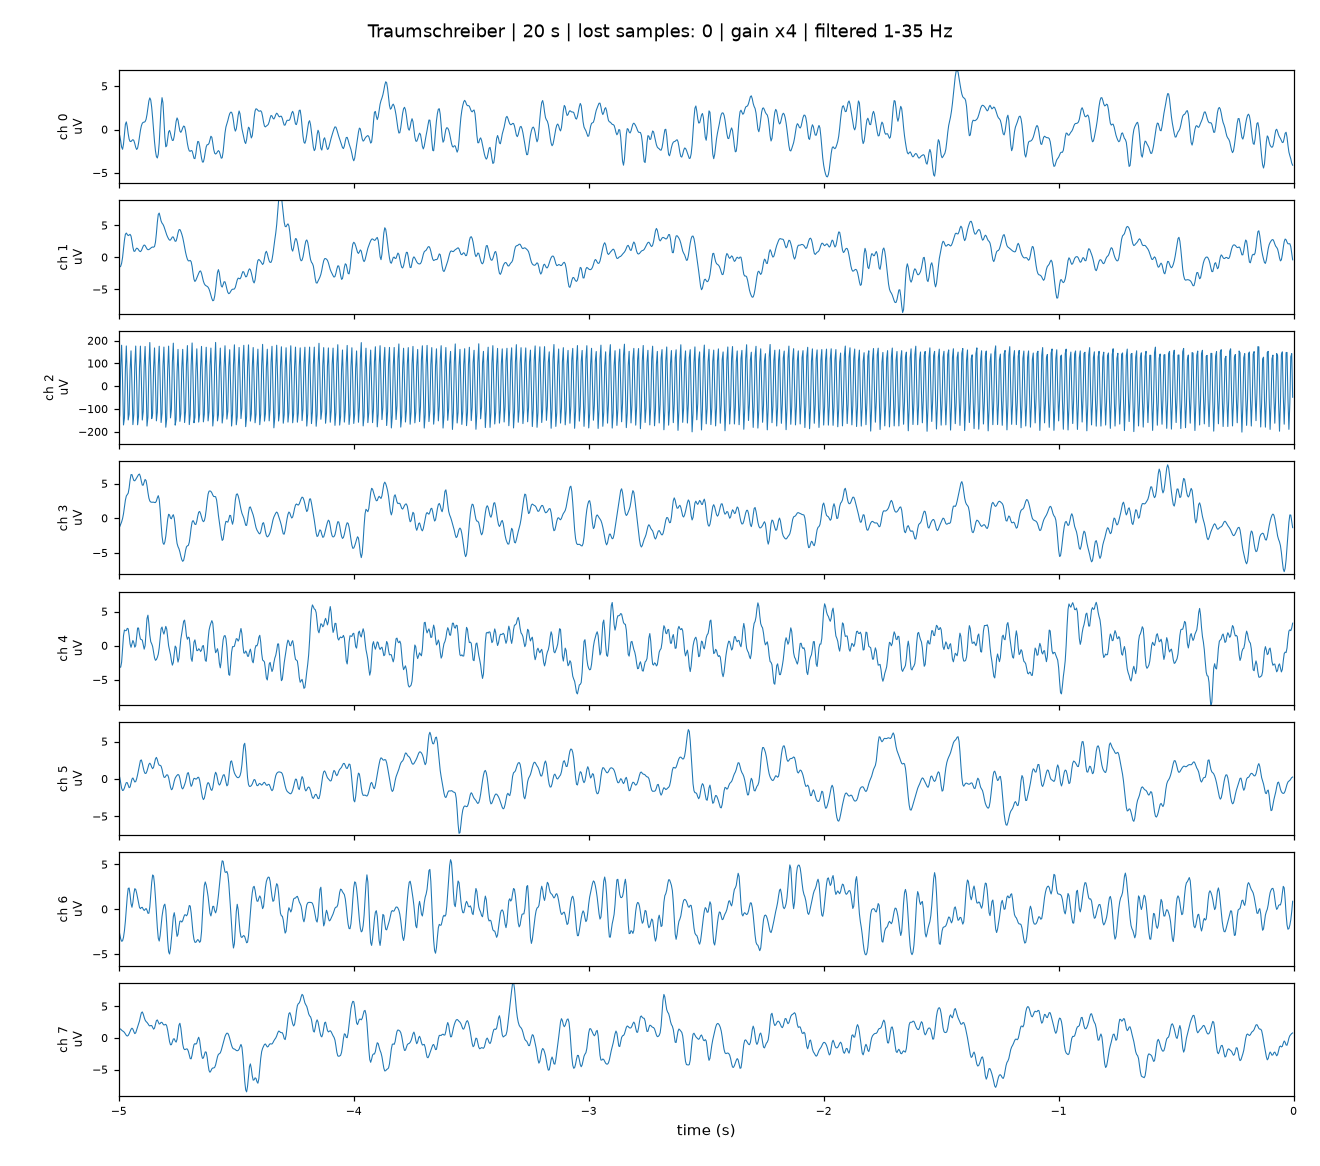
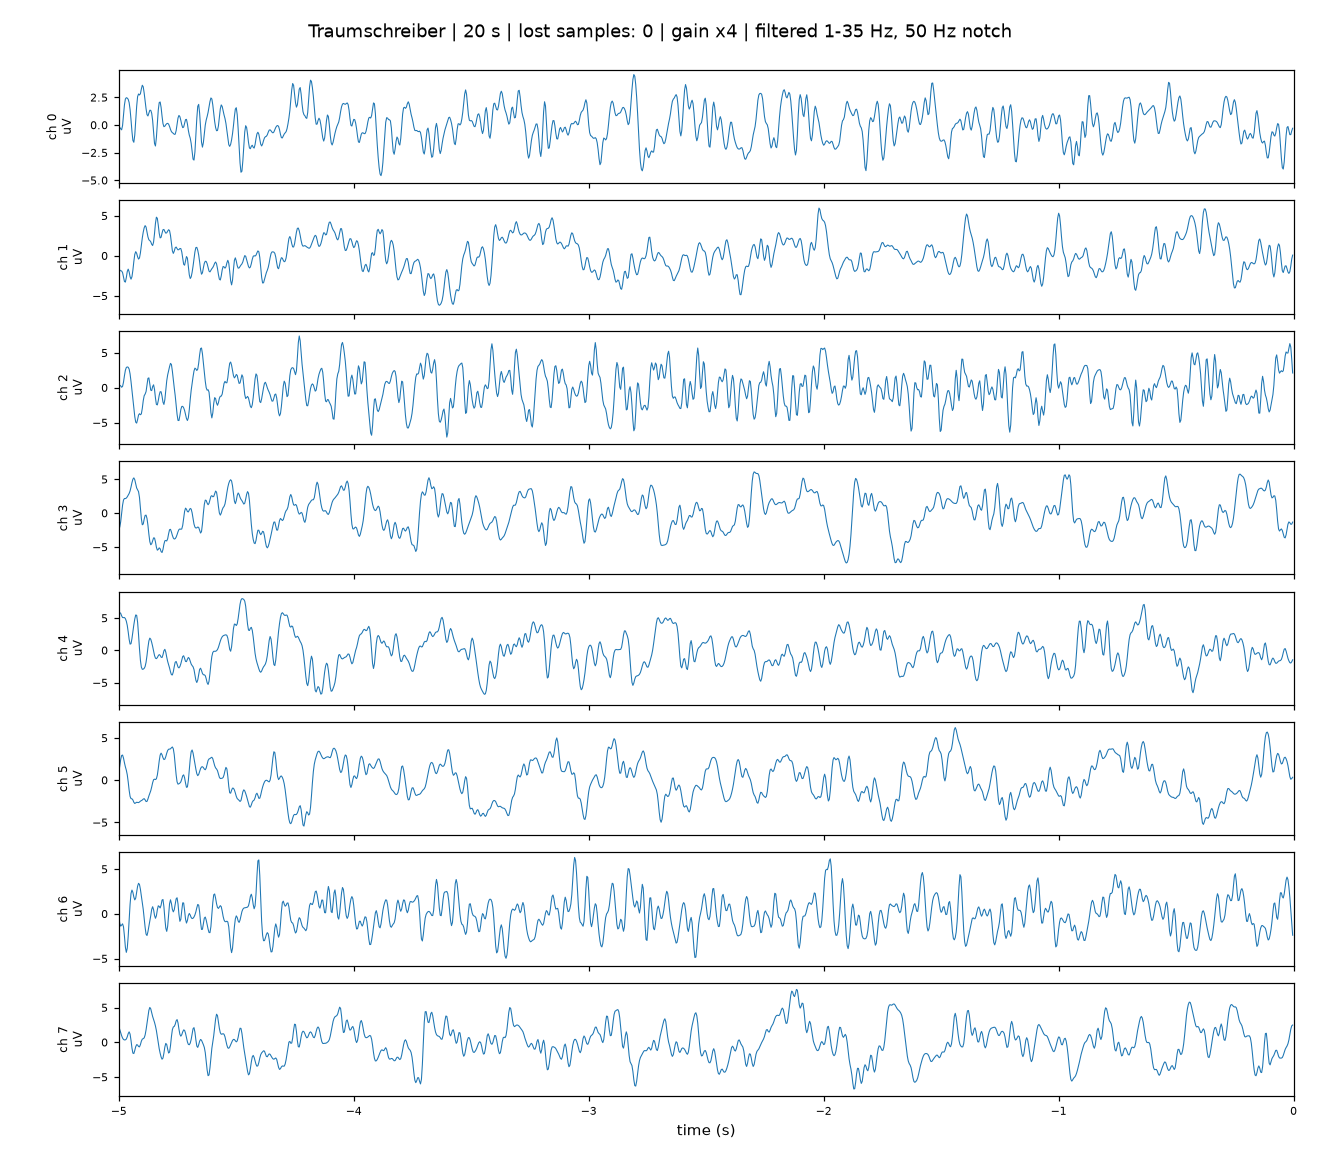
Display filter: add a mains notch (--mains 50/60)
The 1-35 Hz band-pass alone damps 50 Hz by only about 16 dB, so an open input
still showed several hundred microvolts of mains hum. New screenshot.

diff --git a/ts_live_plot.py b/ts_live_plot.py
@@ -9,7 +9,7 @@ Connects to a Traumschreiber, starts streaming and plots every channel the devic
     python ts_live_plot.py --filter             # band-pass 1-35 Hz for display
     python ts_live_plot.py --snapshot 20        # no window: record 20 s, save a PNG, exit
 
-Press "f" in the window to switch the display filter on and off.
+Press "f" in the window to switch the display filter (1-35 Hz, 50 Hz notch) on and off.
 """
 import argparse
 import asyncio
@@ -37,7 +37,9 @@ ap.add_argument("--gain", type=float, default=0.0,
                 help="amplifier gain; default: read from the device (firmware 0.0.91+), else 4")
 ap.add_argument("--window", type=float, default=5.0, help="seconds shown (default 5)")
 ap.add_argument("--ylim", type=float, default=0.0, help="fixed y axis +-N uV; 0 = automatic (default)")
-ap.add_argument("--filter", action="store_true", help="start with the 1-35 Hz display filter on")
+ap.add_argument("--filter", action="store_true",
+                help="start with the display filter on (1-35 Hz band-pass and mains notch)")
+ap.add_argument("--mains", type=float, default=50.0, help="mains frequency for the notch: 50 or 60 (default 50)")
 ap.add_argument("--snapshot", type=float, help="record this many seconds, save --out and exit")
 ap.add_argument("--out", default="ts_live_plot.png", help="file name for --snapshot")
 args = ap.parse_args()
@@ -158,7 +160,11 @@ import matplotlib.pyplot as plt
 from matplotlib.animation import FuncAnimation
 
 nch, chans = st["nch"], st["chans"]
-SOS = signal.butter(4, [1.0, 35.0], btype="bandpass", fs=FS, output="sos")
+# Display filter: notch at the mains frequency, then band-pass 1-35 Hz. The band-pass
+# alone damps 50 Hz by only about 16 dB, far too little for an open input that picks
+# up mains hum of several millivolts.
+SOS = np.vstack([signal.tf2sos(*signal.iirnotch(args.mains, 30.0, fs=FS)),
+                 signal.butter(4, [1.0, 35.0], btype="bandpass", fs=FS, output="sos")])
 show_filtered = [args.filter]
 
 fig, axes = plt.subplots(nch, 1, figsize=(12, 1.2 * nch + 1), sharex=True, squeeze=False)
@@ -207,7 +213,7 @@ def update(_frame=None):
             lo, hi = np.percentile(y, [0.5, 99.5])
             pad = max(hi - lo, 1.0) * 0.15
             axes[i].set_ylim(lo - pad, hi + pad)
-    mode = "filtered 1-35 Hz" if show_filtered[0] else "raw, drift removed"
+    mode = f"filtered 1-35 Hz, {args.mains:g} Hz notch" if show_filtered[0] else "raw, drift removed"
     title.set_text(f"{st['label']} | {received / FS:.0f} s | lost samples: {lost} | "
                    f"gain x{'/'.join(f'{g:g}' for g in sorted(set(st['gains'])))} | {mode}" + ("" if st["connected"] else " | DISCONNECTED"))
 

diff --git a/README.md b/README.md
@@ -4,7 +4,7 @@
 [Traumschreiber](https://github.com/sd20-org/traumschreiber) over Bluetooth and shows all eight
 EEG channels live on your computer. No app and no phone needed.**
 
-![All eight channels of a Traumschreiber without electrodes, filtered 1–35 Hz](images/live_plot.png)
+![All eight channels of a Traumschreiber without electrodes, filtered 1–35 Hz with a 50 Hz notch](images/live_plot.png)
 
 Use it for a quick signal check after putting the electrodes on, for testing the device with a
 function generator, or as the starting point for your own experiments in Python. The whole
@@ -14,7 +14,7 @@ script is about 200 lines.
 |---|---|
 | One plot per channel | in microvolts, the last 5 seconds (adjustable), updated four times per second |
 | Title line | device name, seconds received, samples lost on the radio link, amplifier gain, filter state |
-| Key **f** | switches a 1–35 Hz band-pass on and off (for the display only) |
+| Key **f** | switches the display filter on and off: 1–35 Hz band-pass and a notch at the mains frequency (display only) |
 | No SD card needed | streaming works with or without a card in the device |
 
 > The Traumschreiber is **not a medical device**, and neither is this script. It is meant for
@@ -54,7 +54,8 @@ opens the plot window. Close the window or press Ctrl+C to stop; the device then
 |---|---|
 | `python ts_live_plot.py` | connect to the nearest Traumschreiber |
 | `python ts_live_plot.py --addr AA:BB:CC:DD:EE:FF` | connect to one particular device (the search lists the addresses it finds) |
-| `python ts_live_plot.py --filter` | start with the 1–35 Hz filter on |
+| `python ts_live_plot.py --filter` | start with the display filter on |
+| `python ts_live_plot.py --mains 60` | notch at 60 Hz instead of 50 Hz (Americas, parts of Asia) |
 | `python ts_live_plot.py --ylim 50` | fixed axis of ±50 µV instead of automatic scaling |
 | `python ts_live_plot.py --window 10` | show the last 10 seconds |
 | `python ts_live_plot.py --snapshot 20` | no window: record 20 s, save `ts_live_plot.png`, exit |
@@ -67,6 +68,7 @@ opens the plot window. Close the window or press Ctrl+C to stop; the device then
 | "No Traumschreiber found" | Switch the device on and keep it close. It connects to one device at a time: close the sd20 app or any other app that may be connected to it. |
 | Found, but connecting fails on Linux ("failed to discover services") | Linux may keep a stale entry for the device. Remove it with `bluetoothctl remove AA:BB:CC:DD:EE:FF` (the address the search prints) and start the script again. |
 | A channel is a flat line or jumps wildly | That input has no electrode or bad contact. Unused inputs float and show large slow swings. |
+| A channel shows a fast, even oscillation | Mains hum (50 or 60 Hz), typical for an open input or a loose electrode. Press **f**: the notch removes it from the display. If it stays, check `--mains`. |
 | Many lost samples | Move the computer closer; walls and bodies weaken Bluetooth. Lost samples are still on the device's SD card. |
 
 ## How it works
